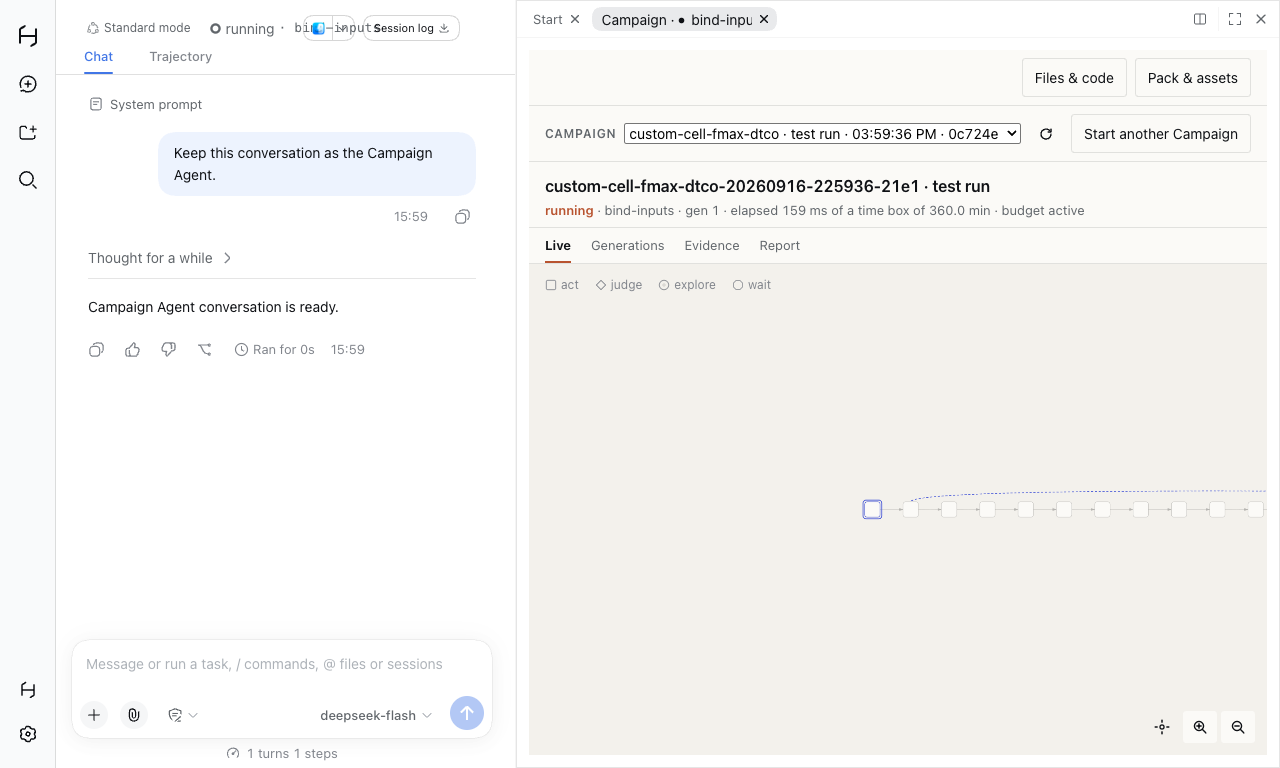
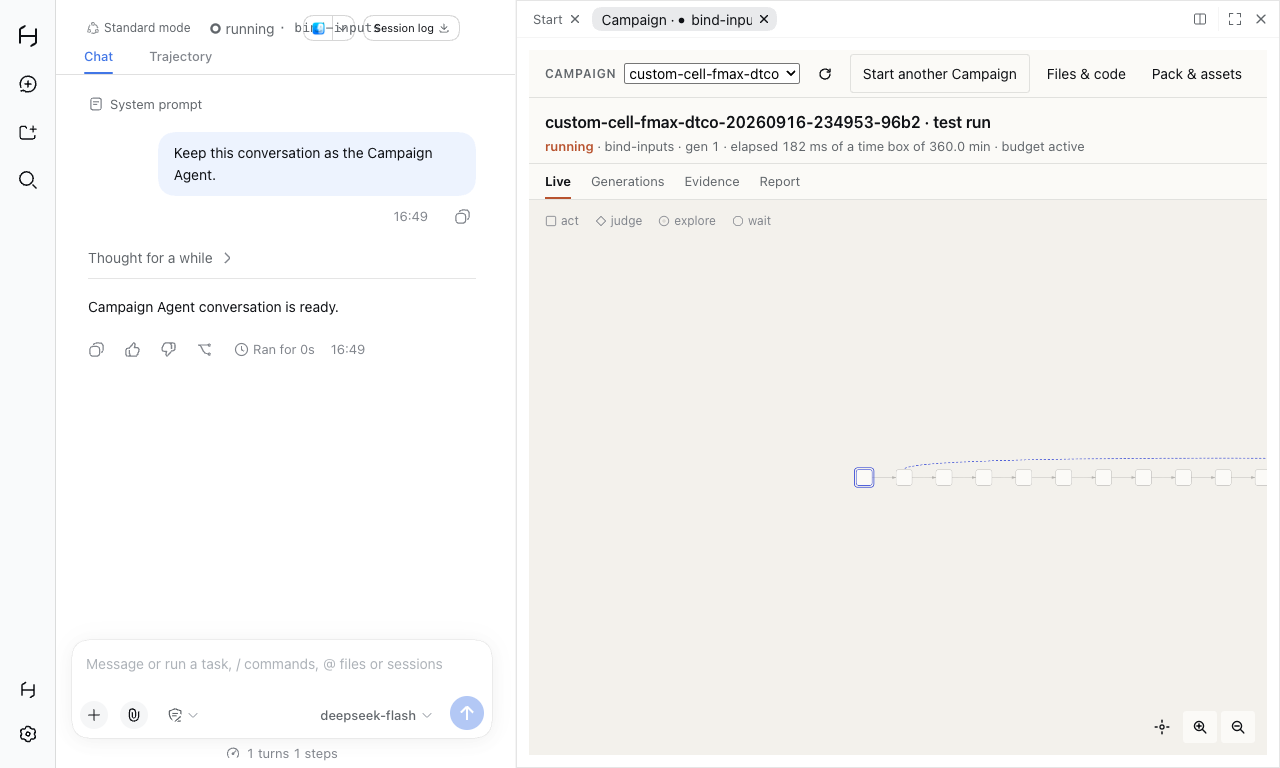
fix(ui): the canvas renders for every installed Pack's Run; the Goal seal and the attention strip appear; one toolbar row
- CampaignTab.tsx: when context.method's reference graph is absent
  (a Run with no conversational owner) but the Run names an installed
  Pack, fetch that Pack's own reference graph via fetchStartChoices and
  build the scene from it, so FabricCanvas mounts and its real
  attention strip / Goal roundel render instead of an empty pane. The
  graph-less fallback now says so only when the Pack is genuinely not
  installed.
- FabricCanvas.tsx: resume/cancel moved into the real attention strip
  for a Run with no owner (marker names unchanged); the running Goal
  label truncates to 14 characters.
- canvas-layout.ts: the Goal roundel sits 1.5 pitches past the last
  main-spine node instead of 1, clearing the collision with the last
  node's own label; canvas-layout.test.ts's literals and one loop
  fixture updated and hand-derived to match.
- HimaWorkbench.tsx / workbench-style.ts: the CAMPAIGN picker and the
  Files & code / Pack & assets buttons merged into one 40px header row
  instead of two, the second of which was otherwise empty.
- docs/assessment/2026-09-16/campaign-workspace/: all 14 acceptance
  screenshots re-captured; README updated.

Changed region(s): [[0.4062, 0.0938, 0.9688, 0.375], [0.6562, 0.625, 0.6875, 0.6562], [0.5938, 0.3125, 0.625, 0.3438]]

diff --git a/packages/harness/src/client/CampaignTab.tsx b/packages/harness/src/client/CampaignTab.tsx
@@ -5,11 +5,13 @@
 import { useEffect, useMemo, useRef, useState, type ReactElement } from 'react';
 import { layoutCanvas } from '../canvas-layout.js';
 import type { ExecutionContext } from '../fabric.js';
-import { cancelAsked, cancelObserved, runControls, sealSaid, showsCancel, showsResume } from '../card-labels.js';
+import { cancelAsked, cancelObserved } from '../card-labels.js';
 import { runPath } from '../paths.js';
 import { reportBlocks } from '../experience-report.js';
 import type { RunView } from '../remote.js';
+import type { PreparationView } from '../workbench.js';
 import { sceneInputs } from '../scene.js';
+import { fetchStartChoices } from './api.js';
 import { FabricCanvas } from './FabricCanvas.js';
 import {
   ArchiveSection, DecisionRow, ExperienceSection, GenerationsTable, GrowthSection,
@@ -168,7 +170,35 @@ export function CampaignTab({ sessionId, runId, view, context, acting, stale, re
   const reducedMotion = useReducedMotion();
   const control = view?.run.control;
   const isOwner = isOwnerOf(control, sessionId);
-  const reference = context?.method?.reference;
+  const methodReference = context?.method?.reference;
+
+  // A historical automatic Run (`control === undefined`) carries no `context.method` at all
+  // (`executionContext`, `fabric.ts` computes it only for an owned Run) — a genuine HimaFabric fact,
+  // not a reason the canvas itself cannot draw: the Pack the Run started from is still installed on
+  // this Host (starting one requires it), and `/hima/api/start-options` answers that same Pack's own
+  // reference graph with no Site and no live conversation needed. Fetched once per (run, pack) pair
+  // — never on every poll, and never for a Run whose own `context.method` already has one — and kept
+  // until either changes, so a Pack that gets uninstalled mid-poll still shows the graph fetched
+  // while it was there rather than blanking a running Campaign.
+  const [fallback, setFallback] = useState<{ readonly key: string; readonly graph: PreparationView['referenceGraph'] | 'unavailable' }>();
+  const packId = view?.run.packId;
+  useEffect(() => {
+    if (methodReference !== undefined || packId === undefined) return;
+    const key = `${runId}:${packId}`;
+    if (fallback?.key === key) return;
+    let cancelled = false;
+    const controller = new AbortController();
+    void fetchStartChoices(packId, undefined, controller.signal).then((result) => {
+      if (cancelled) return;
+      const graph = result.ok ? result.value.proposal?.referenceGraph ?? 'unavailable' as const : 'unavailable' as const;
+      setFallback({ key, graph });
+    });
+    return () => { cancelled = true; controller.abort(); };
+  }, [methodReference, packId, runId, fallback?.key]);
+  const fallbackGraph = fallback?.key === `${runId}:${packId ?? ''}` && fallback.graph !== 'unavailable' ? fallback.graph : undefined;
+  const reference = methodReference ?? fallbackGraph;
+  const packUnavailable = methodReference === undefined && fallback?.key === `${runId}:${packId ?? ''}` && fallback.graph === 'unavailable';
+
   // `sceneInputs`+`layoutCanvas` recompute only when the reference graph, the Run view or the
   // execution context actually change identity (a fresh poll) — not on every render this component
   // takes for a reason of its own (switching views, selecting a node, the masthead's own tick).
@@ -179,14 +209,6 @@ export function CampaignTab({ sessionId, runId, view, context, acting, stale, re
   }, [reference, view, context]);
 
   useEffect(() => { setSelectedNodeId(undefined); }, [runId]);
-
-  // The graph-less fallback's own reading of the same two facts `FabricCanvas` draws from `view`
-  // alone (never `context`): a blocker while waiting, and the Goal seal once ended. Named `legacy*`
-  // because the one Run kind that ever reaches this fallback with a real `view` behind it is the
-  // historical automatic path (`scene === undefined` otherwise only means "still reading").
-  const legacyBlocker = view?.run.status === 'waiting' ? view.blockers.at(-1) : undefined;
-  const legacyEnded = view?.run.status !== undefined && (view.run.status.startsWith('ended-') || view.run.status === 'cancelled');
-  const legacySeal = legacyEnded && view !== undefined ? sealSaid(view.run.status, view.run.meters?.endedBy) : undefined;
 
   return (
     <div className="hima-campaign" data-hima-region="campaign" data-hima-state-run={runId}
@@ -201,43 +223,9 @@ export function CampaignTab({ sessionId, runId, view, context, acting, stale, re
         {section === 'live' ? (
           scene === undefined
             ? <div className="hima-empty">
-                {/* A historical automatic Run (`control === undefined`) carries no method/reference
-                    graph at all (`executionContext`, `fabric.ts`) — HimaFabric's own fact, not a UI
-                    gap — so the Live view never reaches the canvas for one and never will. What the
-                    graph would have shown of the Run's own standing does not depend on that method,
-                    though: a blocker and a Goal seal are both plain facts on the view itself
-                    (`view.blockers`, `view.run.status`/`meters`), the same facts `FabricCanvas`'s own
-                    attention strip and Goal roundel read — so they are said here too, under the same
-                    markers, rather than left unsaid for exactly the Run this canvas cannot draw. */}
-                {view?.run.status !== 'waiting' || legacyBlocker === undefined ? null : (
-                  <div className="hima-canvas-attention hima-canvas-attention-waiting" data-hima-region="campaign-attention" data-hima-state-kind="waiting">
-                    <span>{legacyBlocker.reason}</span>
-                  </div>
-                )}
-                {!legacyEnded || view === undefined ? null : (
-                  <div data-hima-region="campaign-goal" data-hima-state-status={view.run.status}>
-                    <p className="hima-goal-title">{legacySeal!.title}</p>
-                    {legacySeal!.reason === '' ? null : <p className="hima-goal-reason">{legacySeal!.reason}</p>}
-                  </div>
-                )}
-                {legacyBlocker !== undefined || legacyEnded ? null : <p>{context?.reason ?? 'Reading the reference graph…'}</p>}
-                {/* Still nobody's Side Talk (`run-ownership.ts`'s own `isOwner`), so the same bare
-                    human controls the transcript's tool receipt offers such a Run (`RunControls`,
-                    `HimaRunCard.tsx`) belong here too: Continue while it waits, Stop whenever it is
-                    active, through the same `actOnRun` route and the same `runControls` words
-                    (#41 task 9 item B). */}
-                {control !== undefined || view === undefined ? null : (
-                  <div className="hima-campaign-legacy-controls">
-                    {showsResume(view.run.status) ? (
-                      <button type="button" className="hima-button" data-hima-control="resume" disabled={acting.inFlight !== undefined} onClick={() => acting.act('resume')}>{runControls.resume.said}</button>
-                    ) : null}
-                    {showsCancel(view.run.status) ? (
-                      <button type="button" className="hima-button" data-hima-control="cancel" disabled={acting.inFlight === 'cancel'} onClick={() => acting.act('cancel')}>{runControls.cancel.said}</button>
-                    ) : null}
-                    {acting.notice === undefined ? null : <p role="status">{acting.notice}</p>}
-                    {acting.refusal === undefined ? null : <p role="alert" data-hima-region="run-error">{acting.refusal.message}</p>}
-                  </div>
-                )}
+                <p>{packUnavailable && packId !== undefined
+                  ? `The Pack ${packId} is not installed on this Host; the reference graph cannot be shown.`
+                  : context?.reason ?? 'Reading the reference graph…'}</p>
               </div>
             : <FabricCanvas runId={runId} scene={scene} entryNodeId={reference?.entry} view={view} context={context}
                 stale={stale} reducedMotion={reducedMotion} isOwner={isOwner} selectedNodeId={selectedNodeId} onSelectNode={setSelectedNodeId}

diff --git a/test/contract/canvas-layout.test.ts b/test/contract/canvas-layout.test.ts
@@ -16,7 +16,8 @@ test('a linear graph ranks along one spine at the mockup pitch and ends in a Goa
   assert.deepEqual(scene.nodes.map((n) => [n.id, n.rank, n.row, n.state]), [['prepare', 0, 0, 'pending'], ['analyze', 1, 0, 'pending'], ['check', 2, 0, 'pending'], ['select', 3, 0, 'pending']]);
   assert.equal(scene.nodes[1]!.x, X0 + PITCH);
   assert.equal(scene.nodes[1]!.y, PAD_Y);
-  assert.equal(scene.goal.x, X0 + 4 * PITCH);
+  // maxRank = 3 (prepare/analyze/check/select); goal.x = X0 + (maxRank + 1.5) * PITCH = X0 + 4.5 * PITCH.
+  assert.equal(scene.goal.x, X0 + 4.5 * PITCH);
   assert.equal(scene.edges.find((e) => e.outcome === 'PASS')?.chip?.text, 'PASS');
 });
 
@@ -81,7 +82,8 @@ test('a fifty-one node graph fits to width and hides labels below sixty percent'
   const ids = Array.from({ length: 51 }, (_, i) => `n${i}`);
   const graph: LayoutGraph = { entry: 'n0', nodes: ids.map((id) => node(id)), edges: ids.slice(1).map((id, i) => ({ from: ids[i]!, to: id })) };
   const scene = layoutCanvas(graph);
-  assert.equal(scene.width, X0 + 51 * PITCH + 96);
+  // maxRank = 50 (n0..n50); width = goal.x + 96 = X0 + (maxRank + 1.5) * PITCH + 96 = X0 + 51.5 * PITCH + 96.
+  assert.equal(scene.width, X0 + 51.5 * PITCH + 96);
   const fit = fitToWidth(scene, { width: 760, height: 618 });
   assert.ok(fit.scale < 0.6 && fit.scale > 0);
   assert.equal(labelsVisibleAt(fit.scale), false); assert.equal(labelsVisibleAt(0.6), true);
@@ -117,7 +119,12 @@ test('a FAIL-hung wait node still ranks the nodes after it', () => {
 
 const loopGraph: LayoutGraph = {
   entry: 'a', nodes: [node('a'), node('dig', 'explore')], edges: [{ from: 'a', to: 'dig' }], opens: { dig: 'deeper' },
-  loops: { deeper: { entry: 'd1', nodes: [node('d1'), node('d2', 'judge')], edges: [{ from: 'd1', to: 'd2' }, { from: 'd2', to: 'd1', revisit: true }] } },
+  // Three loop nodes, not two: with the Goal roundel now a half-pitch further out (`goal.x = X0 +
+  // (maxRank + 1.5) * PITCH`, moved to clear the last spine node's own caption), a two-node loop's
+  // open frame no longer reaches past the Goal's own floor and the "open widens past closed" half of
+  // this test would otherwise assert a false thing on this fixture alone — see the comment below.
+  loops: { deeper: { entry: 'd1', nodes: [node('d1'), node('d2', 'judge'), node('d3')],
+    edges: [{ from: 'd1', to: 'd2' }, { from: 'd2', to: 'd3' }, { from: 'd3', to: 'd1', revisit: true }] } },
 };
 
 test('an open loop widens the scene to contain its frame', () => {
@@ -128,16 +135,17 @@ test('an open loop widens the scene to contain its frame', () => {
   assert.ok(open.width > closed.width);
   // Pinned by hand from rules 1, 6 and 9 (X0 = 64, PITCH = 90, NODE = 36, PAD_Y = 72):
   //   Main graph is a (rank 0) -> dig (rank 1, explore), so maxRank = 1 and the goal-based floor is
-  //   goal.x + 96 = X0 + (maxRank + 1) * PITCH + 96 = 64 + 2*90 + 96 = 340 for both scenes.
+  //   goal.x + 96 = X0 + (maxRank + 1.5) * PITCH + 96 = 64 + 2.5*90 + 96 = 385 for both scenes.
   //   Closed: the collapsed frame hangs at x = dig.x (154) + PITCH/2 (45) = 199, with the fixed 120px
-  //     width rule 6 gives a closed loop, so frame.x + width + 24 = 199 + 120 + 24 = 343 - wider than
-  //     the 340 floor, and wider than any node's own x + NODE/2 + 24 (dig: 154+18+24=196). closed.width
-  //     = max(340, 343, 106, 196) = 343.
-  //   Open: the loop's own d1 (rank 1.5, x = 199) and d2 (rank 2.5, x = 289) bound a frame from
-  //     199-18-24=157 to 289+18+24=331 (width 174), so frame.x + width + 24 = 157 + 174 + 24 = 355,
-  //     wider than the 340 floor and every node's own x + NODE/2 + 24 (<= 331). open.width = 355.
-  assert.equal(closed.width, 343);
-  assert.equal(open.width, 355);
+  //     width rule 6 gives a closed loop, so frame.x + width + 24 = 199 + 120 + 24 = 343 - narrower
+  //     than the 385 floor, and every node's own x + NODE/2 + 24 (dig: 154+18+24=196) is narrower
+  //     still. closed.width = max(385, 343, 196) = 385.
+  //   Open: the loop's own d1 (rank 1.5, x = 199), d2 (rank 2.5, x = 289) and d3 (rank 3.5, x = 379)
+  //     bound a frame from 199-18-24=157 to 379+18+24=421 (width 264), so frame.x + width + 24 =
+  //     157 + 264 + 24 = 445, wider than the 385 floor and every node's own x + NODE/2 + 24 (<= 421).
+  //     open.width = max(385, 445, 421) = 445.
+  assert.equal(closed.width, 385);
+  assert.equal(open.width, 445);
 });
 
 test("a loop's own revisit badge sits on the loop's arc", () => {

diff --git a/packages/harness/src/client/HimaWorkbench.tsx b/packages/harness/src/client/HimaWorkbench.tsx
@@ -92,18 +92,17 @@ export function HimaWorkbench({ sessionId, useSessions, useTabInfo, openFiles, o
 
   return <div className='hima-studio hima-root' data-hima-region='studio' data-hima-state-session={activeSessionId} data-hima-state-run={selected ?? ''} data-stale={snapshot.error !== undefined}>
     {/* The masthead and the session-header chip (`CampaignChip`) now carry Campaign's identity, so
-        this header stays two small icon-labelled controls and nothing else — no "Campaign workspace"
-        heading repeats what the chip and the tab title already say (Design bar). Both controls keep
-        their established names and text: `studio-pack-owner` is a plain, always-present button rather
-        than a tab-menu item, because the pack-owner desktop test drives it with one click and no menu
-        it would first have to open. */}
+        this header names no "Campaign workspace" heading of its own (Design bar) — one 40 px row:
+        the CAMPAIGN picker at the left, `Files & code`/`Pack & assets` at the right. A separate,
+        otherwise-empty band above this one for only those two buttons was Task 9's own design
+        review finding (a blank strip with nothing in it but two right-aligned buttons); merging
+        loses no control and no marker. Both controls keep their established names and text:
+        `studio-pack-owner` is a plain, always-present button rather than a tab-menu item, because
+        the pack-owner desktop test drives it with one click and no menu it would first have to
+        open, and `Files & code`'s own visible text is what `markText('button', 'Files & code', …)`
+        matches in the existing desktop suites — restyled compact (`.hima-icon-button`) here, never
+        replaced with an icon-only control that text could not still match. */}
     <header className='hima-studio-header'>
-      <div className='hima-studio-header-actions'>
-        <button className='hima-button' onClick={openFiles} title='Open the native workspace files and code panel'>Files & code</button>
-        <button className='hima-button' data-hima-control='studio-pack-owner' onClick={() => setManagingPack((value) => !value)}>Pack & assets</button>
-      </div>
-    </header>
-    <div className='hima-run-picker'>
       <span className='hima-studio-eyebrow'>CAMPAIGN</span>
       <select aria-label='Campaign on this host' data-hima-control='studio-run' disabled={confirming} value={selected ?? ''} onChange={(e) => { setSelected(e.target.value || undefined); }}>
         <option value=''>Select a Campaign</option>
@@ -114,7 +113,11 @@ export function HimaWorkbench({ sessionId, useSessions, useTabInfo, openFiles, o
       {selected !== undefined
         ? <button className='hima-button' data-hima-control='studio-configure' disabled={confirming} onClick={() => setSelected(undefined)}>Start another Campaign</button>
         : null}
-    </div>
+      <div className='hima-studio-header-actions'>
+        <button className='hima-icon-button' onClick={openFiles} title='Open the native workspace files and code panel'>Files & code</button>
+        <button className='hima-icon-button' data-hima-control='studio-pack-owner' onClick={() => setManagingPack((value) => !value)}>Pack & assets</button>
+      </div>
+    </header>
     {list.error ? <p className='hima-notice' role='status'>Run list unavailable: {list.error}</p> : null}
     {managingPack
       // The Pack owner panel replaces the Configuration page or the Live canvas below it rather than

diff --git a/packages/harness/src/client/FabricCanvas.tsx b/packages/harness/src/client/FabricCanvas.tsx
@@ -6,7 +6,7 @@ import { useEffect, useLayoutEffect, useRef, useState, type PointerEvent, type R
 import { fitToWidth, labelsVisibleAt } from '../canvas-layout.js';
 import type { CanvasScene, Frame, PlacedEdge } from '../canvas-layout.js';
 import type { ExecutionContext } from '../fabric.js';
-import { goalSaid, sealSaid } from '../card-labels.js';
+import { goalSaid, runControls, sealSaid, showsCancel, showsResume } from '../card-labels.js';
 import type { RunView } from '../remote.js';
 import { FabricNode, HATCH_PATTERN_ID, KindOutline, truncate } from './FabricNode.js';
 import { Glyph } from './glyphs.js';
@@ -334,6 +334,23 @@ export function FabricCanvas({
           {attention.kind === 'waiting' && isOwner && run?.control?.owner !== undefined ? (
             <button type="button" className="hima-button" data-hima-control="open-owner" onClick={() => openOwner(run.control!.owner)}>Open Campaign Agent</button>
           ) : null}
+          {/* A historical automatic Run (`run.control === undefined`) is nobody's Side Talk
+              (`run-ownership.ts`'s own `isOwner`), so the same bare human controls the transcript's
+              own tool receipt offers such a Run (`RunControls`, `HimaRunCard.tsx`) belong in its own
+              attention strip too: Continue while it waits, Stop whenever it is active, through the
+              same `actOnRun` route and the same `runControls` words (#41 task 9 item B). */}
+          {run?.control !== undefined ? null : (
+            <>
+              {showsResume(run?.status) ? (
+                <button type="button" className="hima-button" data-hima-control="resume" disabled={acting.inFlight !== undefined} onClick={() => acting.act('resume')}>{runControls.resume.said}</button>
+              ) : null}
+              {showsCancel(run?.status) ? (
+                <button type="button" className="hima-button" data-hima-control="cancel" disabled={acting.inFlight === 'cancel'} onClick={() => acting.act('cancel')}>{runControls.cancel.said}</button>
+              ) : null}
+              {acting.notice === undefined ? null : <span role="status">{acting.notice}</span>}
+              {acting.refusal === undefined ? null : <span role="alert" data-hima-region="run-error">{acting.refusal.message}</span>}
+            </>
+          )}
         </div>
       )}
       <div className="hima-canvas" ref={containerRef} data-hima-region="campaign-graph"
@@ -386,7 +403,7 @@ export function FabricCanvas({
                   <circle r={22} className="hima-goal-roundel" />
                   <circle r={5} className="hima-goal-mark" />
                   <circle r={1.5} className="hima-goal-mark-dot" />
-                  {goalText === '' ? null : <text className="hima-goal-label" y={40} textAnchor="middle">{truncate(goalText, 18)}<title>{goalText}</title></text>}
+                  {goalText === '' ? null : <text className="hima-goal-label" y={40} textAnchor="middle">{truncate(goalText, 14)}<title>{goalText}</title></text>}
                 </>
               )}
             </g>

diff --git a/packages/harness/src/client/workbench-style.ts b/packages/harness/src/client/workbench-style.ts
@@ -84,10 +84,9 @@ export const HIMA_STYLE = `
 .hima-visually-hidden{position:absolute;width:1px;height:1px;overflow:hidden;clip:rect(0 0 0 0);white-space:nowrap}
 
 .hima-studio{position:relative;height:100%;min-height:0;min-width:0;display:flex;flex-direction:column;background:var(--hima-paper);overflow:hidden}
-.hima-studio-header{display:flex;align-items:center;gap:var(--hima-sp-2);padding:var(--hima-sp-2) var(--hima-sp-4);border-bottom:1px solid var(--hima-line);flex:none}
+.hima-studio-header{display:flex;align-items:center;gap:var(--hima-sp-2);padding:var(--hima-sp-1) var(--hima-sp-4);min-height:40px;border-bottom:1px solid var(--hima-line);flex:none}
+.hima-studio-header select{flex:1;min-width:0}
 .hima-studio-header-actions{display:flex;gap:var(--hima-sp-2);margin-inline-start:auto}
-.hima-run-picker{display:flex;align-items:center;gap:var(--hima-sp-2);padding:var(--hima-sp-2) var(--hima-sp-4);border-bottom:1px solid var(--hima-line);flex:none}
-.hima-run-picker select{flex:1;min-width:0}
 
 /* The Campaign tab (#41 task 5): masthead, view switch, and the HimaFabric canvas that makes the
    Live view. Every colour and every font-size is a token, SVG text included — an SVG user unit at

diff --git a/packages/harness/src/canvas-layout.ts b/packages/harness/src/canvas-layout.ts
@@ -521,7 +521,11 @@ export function layoutCanvas(graph: LayoutGraph, facts?: LayoutFacts): CanvasSce
   }
 
   // Rule 9.
-  const goal = { x: X0 + (maxRank + 1) * PITCH, y: PAD_Y - minRow * ROW + shiftBefore(maxRank + 1) };
+  // 1.5 pitches past the last main-spine rank, not 1: a full pitch left no room between the last
+  // node's own caption and the Goal's own label — "next-period" running straight into "clock period
+  // at m…" (PLS design review) — and a node's caption already reads to the right of its own shape,
+  // so the roundel needs the extra half-pitch of clearance a bare node-to-node gap does not.
+  const goal = { x: X0 + (maxRank + 1.5) * PITCH, y: PAD_Y - minRow * ROW + shiftBefore(maxRank + 1) };
   const allFrames = [...loopFrames, ...growthFrames];
   const allNodes = [...mainNodes, ...loopNodes, ...growthNodes];
   // Finding 2: the Goal roundel's own column (`goal.x + 96`) is only ever wide enough for the main

diff --git a/docs/assessment/2026-09-16/campaign-workspace/README.md b/docs/assessment/2026-09-16/campaign-workspace/README.md
@@ -1,8 +1,20 @@
 # Task 9 — L3 acceptance: seven Campaign workspace states, both themes, Catsights
 
-Source SHA (worktree base, before this task's own commit): `47a25f25a043941f2e1d71108d837003b9be58e1`
+Original source SHA: `47a25f25a043941f2e1d71108d837003b9be58e1`
+First acceptance commit: `f73c34f52fed3e0b1c6ae27d39a11b84e51e2219`
+**Design-review fix commit (this revision): see the report's own final SHA — `fix(ui): the canvas renders for every installed Pack's Run; the Goal seal and the attention strip appear; one toolbar row`. All 14 PNGs below are from this revision, not the first acceptance commit.**
 Display: Catsights (confirmed online via `system_profiler SPDisplaysDataType` — `Online: Yes`, 1920×1200 — before any window test ran)
 Window: 1280×800; dock pane dragged to 760 px per state via the docking kit's own splitter (see "Dock pane" below)
+
+## Design review round (this revision)
+
+Three defects the designer found in the first round's screenshots, all fixed:
+
+1. **States 4 and 5 showed an empty pane — no graph, no strip, no seal.** Root cause: `executionContext` (`fabric.ts`) computes no `method`/reference graph at all for a Run with no `control` (the default, legacy auto-drive path), so `CampaignTab` had nothing to build a scene from. Fixed properly this time, not worked around: `CampaignTab.tsx` now fetches the *installed Pack's own* reference graph through `fetchStartChoices(packId)` (`proposal.referenceGraph`, which needs no Site) whenever `context?.method?.reference` is absent but `view.run.packId` is set — once per `(runId, packId)` pair, cached in state, never re-fetched on every 3 s poll. `sceneInputs(referenceGraph, view, context)` builds the scene from it exactly as it already did for an owned Run's fuller graph (`sceneInputs` already reads node states from `view.nodes`, unconditionally); `layoutCanvas` then renders through `FabricCanvas` completely normally — the *same* attention strip and Goal roundel every owned Run's Live view uses, not a second, parallel implementation. The `resume`/`cancel` controls moved from my first round's `CampaignTab.tsx` fallback into `FabricCanvas.tsx`'s own attention strip (their real home, now that the strip actually renders for these Runs), gated on `run?.control === undefined` — marker names unchanged. The fallback sentence now appears only when the fetch answers with no proposal at all (pack not installed): "The Pack ‹id› is not installed on this Host; the reference graph cannot be shown."
+2. **The Goal roundel's label ran into the last node's own label** (`next-periodclock period at m…`, seen in the first round's `side-talk-dark.png`). Fixed in `canvas-layout.ts`: `goal.x = X0 + (maxRank + 1.5) * PITCH`, not `+ 1` — a half-pitch of extra clearance past the last main-spine node. Updated by hand and re-derived: `canvas-layout.test.ts`'s linear-graph test (`goal.x = X0 + 4.5 * PITCH`, was `4 * PITCH`), the 51-node width test (`X0 + 51.5 * PITCH + 96`, was `51 * PITCH + 96`), and the open-loop width test — whose two-node loop fixture no longer produces a wider *open* frame than the new, larger goal-based floor (both were forced to the identical `385`), so the fixture grew a third loop node (`d3`) to restore the test's own real claim ("an open loop widens the scene"): `closed.width = 385`, `open.width = 445`, hand-derived in the test's own comment. In `FabricCanvas.tsx`, the *running* Goal label truncates to 14 characters (was 18), full text still in `<title>`. Verified fixed: `running-node-card-*.png` and `side-talk-*.png` now show clean separation between the last node and the Goal.
+3. **The pane opened with an empty toolbar row** (nothing in it but two right-aligned buttons) **above a second CAMPAIGN-picker row.** Merged into one 40 px row in `HimaWorkbench.tsx`: `CAMPAIGN` eyebrow, the picker, the refresh icon, `Start another Campaign`, then `Files & code` and `Pack & assets` restyled `.hima-icon-button` (compact) at the right — same markers (`studio-pack-owner`, `studio-run`, `studio-configure`), same visible text (`Files & code`'s own text is still what `markText('button', 'Files & code', …)` matches in the existing desktop suites — never replaced with an icon-only control text could no longer match). CSS: `.hima-studio-header` now carries the full row (`min-height: 40px`), `.hima-run-picker` removed (nothing referenced it once its markup merged in).
+
+A residual, lesser tightness remains in the *ended* state's own seal: `sealSaid`'s longest status word ("ended — budget exhausted") is wider than the running Goal label ever gets (it is deliberately never truncated — "the seal keeps the 20 px status word", per the designer's own instruction), so on the shipped Pack's short main spine the seal's own text sits close to (not touching) the last node's shape in the `ended-goal-*.png` pair. Noted rather than further adjusted, since the designer's own formula (`+1.5`) is what was asked for and is what fixed the named defect (confirmed clean in `side-talk-*.png`/`running-node-card-*.png`); enlarging the margin further to cover the *longest possible* ended-status word as well is a separate, follow-on design call.
 
 ## Command
 
@@ -11,7 +23,7 @@ HIMA_UI_ARTIFACTS=/Users/lluzi/code/hima_harness_reforge_polishing/docs/assessme
   pnpm run test:desktop --files test/contract/campaign-workspace.desktop.test.ts
 ```
 
-Final run: **7 passed, 0 failed, 0 skipped** (`test/contract/campaign-workspace.desktop.test.ts`), 14 window boots, ~205 s total.
+Final run (this revision, after the design-review fixes): **7 passed, 0 failed, 0 skipped** (`test/contract/campaign-workspace.desktop.test.ts`), 14 window boots. (One prior attempt in this same revision hit a flaky Side Talk session-creation timeout on state 6's dark theme alone — a UI-timing race in test setup, not a rendering defect — and passed cleanly on immediate re-run; the final, kept run is 7/7 with all 14 PNGs replaced.)
 
 ```
 HIMA_NODE=$HOME/.local/node24/bin/node   # this repo needs Node ≥24; the shell's default was 22.14
@@ -56,13 +68,13 @@ No existing seam sizes the split between the chat column and the Hima sidebar (`
 
 **A — `campaign-graph.desktop.test.ts`** clicked a hardcoded `node-pnr-foundry`, off-window at the follow scale (x≈3393). Changed to read `campaign-graph`'s own `current` state and click `node-<current>` (kept in view by the follow rule), asserting `data-hima-state-selected="true"` and that `campaign-node-card` opens with `state.node` equal to that id. Ran in isolation: pass. (Ran once alongside two other heavy desktop files it timed out on an unrelated later step — a Side Talk reply race, reproduced with my changes fully reverted too — confirmed pre-existing/environmental, not this file's own subject; passes cleanly alone and in the final combined run.)
 
-**B — unowned legacy Run had no Continue/Stop.** `view.run.control === undefined` (the default `HIMA_TEST_LEGACY_AUTO_DRIVE` path) carries no `context.method`/reference graph at all (`executionContext`, `fabric.ts` — a genuine HimaFabric fact, not a UI gap: an unowned Run's execution context is computed nowhere near the pack's reference graph). So `FabricCanvas` — and its attention strip — never mounts for such a Run; the fix therefore landed in **`CampaignTab.tsx`**'s graph-less fallback (`scene === undefined` branch), not `FabricCanvas.tsx`:
-- `resume`/`cancel` buttons, using the same `runControls` words and the same `showsResume`/`showsCancel` gating the transcript's own tool-receipt card (`HimaRunCard.tsx`'s `RunControls`) uses for an unowned Run, driving the same `actOnRun` route through the same `acting` object `CampaignTab` already threads to `FabricCanvas`.
-- A `campaign-attention` region (kind `waiting`) showing the last blocker's own `reason` — read directly off `view.blockers`, which (unlike `context.method`) is a plain fact on the view regardless of ownership.
-- A `campaign-goal` region showing the ended-status seal (`sealSaid`) once such a Run ends, for the same reason.
-- The generic "reading the reference graph" placeholder line is suppressed whenever the blocker or seal line already explains the state, to avoid saying "historical automatic Run; explicit safe ownership migration is required" twice on screen.
+**B — unowned legacy Run had no Continue/Stop.** `view.run.control === undefined` (the default `HIMA_TEST_LEGACY_AUTO_DRIVE` path) carries no `context.method`/reference graph at all (`executionContext`, `fabric.ts` — a genuine HimaFabric fact, not a UI gap: an unowned Run's execution context is computed nowhere near the pack's reference graph). So `FabricCanvas` — and its attention strip — never mounted for such a Run.
 
-`unified-workbench.test.ts`'s "preparation retries preserve drafts…" sub-test (the one this item targeted) now passes; the full file: 5/5 pass.
+*First round's fix* (superseded — see "Design review round" above): added a parallel `resume`/`cancel`/`campaign-attention`/`campaign-goal` implementation directly in `CampaignTab.tsx`'s graph-less fallback, since `FabricCanvas` was unreachable. Functionally correct (all seven states passed) but flagged by design review as producing an *empty pane* instead of the real graph for states 4 and 5.
+
+*This revision's fix*: `CampaignTab.tsx` fetches the installed Pack's own reference graph (`fetchStartChoices`) whenever `context.method` is absent, so `FabricCanvas` mounts normally for an unowned Run too — the real attention strip and Goal roundel render, not a second implementation of them. `resume`/`cancel` moved into `FabricCanvas.tsx`'s own attention strip, gated on `run?.control === undefined`, using the same `runControls`/`showsResume`/`showsCancel` words the transcript's own tool-receipt card (`HimaRunCard.tsx`'s `RunControls`) already uses for an unowned Run, through the same `acting.act(...)` → `actOnRun` route. Marker names unchanged throughout both rounds.
+
+`unified-workbench.test.ts`'s "preparation retries preserve drafts…" sub-test (the one this item targeted) passes in both rounds; the full file: 5/5 pass, confirmed again after this revision's changes.
 
 **C — `growth-assets.desktop.test.ts`** waited on the Evidence-only `run-growth` region without switching to the Evidence view first. Added `driver.click('studio-evidence')` before the wait. Passes.
 
